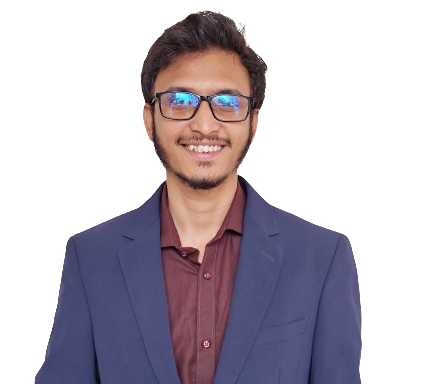
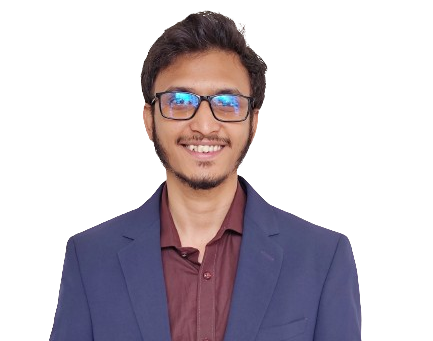
stairs animation added

Changed region(s): [[0.06, 0.0293, 0.8406, 1.0], [0.6905, 0.8211, 0.7506, 1.0], [0.2102, 0.8798, 0.2402, 1.0]]

diff --git a/components/shared/page-transition/stair-transition.tsx b/components/shared/page-transition/stair-transition.tsx
@@ -1,0 +1,48 @@
+'use client';
+
+import { AnimatePresence, motion } from 'framer-motion';
+import { usePathname } from 'next/navigation';
+
+const stairAnimation = {
+  initial: {
+    top: '0%',
+  },
+  animate: {
+    top: '100%',
+  },
+  exit: {
+    top: ['100%', '0%'],
+  },
+};
+
+const reverseIndex = (index: number) => {
+  const totalSteps = 12;
+  return totalSteps - index - 1;
+};
+
+export function StairTransition() {
+  const pathName = usePathname();
+  return (
+    <AnimatePresence mode="wait">
+      <div key={pathName}>
+        <div className="pointer-events-none fixed left-0 right-0 top-0 z-50 flex h-screen w-screen">
+          {[...Array(12)].map((_, index) => (
+            <motion.div
+              key={index}
+              variants={stairAnimation}
+              initial="initial"
+              animate="animate"
+              exit="exit"
+              transition={{
+                duration: 0.3,
+                ease: 'easeInOut',
+                delay: reverseIndex(index) * 0.04,
+              }}
+              className="relative h-full w-full bg-neutral-100"
+            />
+          ))}
+        </div>
+      </div>
+    </AnimatePresence>
+  );
+}

diff --git a/app/layout.tsx b/app/layout.tsx
@@ -1,8 +1,10 @@
 import type { Metadata } from 'next';
 import { JetBrains_Mono } from 'next/font/google';
-import './globals.css';
-import { Navbar } from '@/components/shared/navbar';
+import { PageTransition } from '@/components/shared/page-transition';
 import { cn } from '@/lib/utils';
+import './globals.css';
+import { StairTransition } from '@/components/shared/page-transition/stair-transition';
+import { Navbar } from '@/components/shared/navbar';
 import { Footer } from '@/components/shared/footer';
 
 const font = JetBrains_Mono({
@@ -21,9 +23,10 @@ export default function RootLayout({
 }>) {
   return (
     <html lang="en">
-      <body className={cn(font.className, 'flex min-h-screen flex-col')}>
+      <body className={font.className}>
         <Navbar />
-        {children}
+        <StairTransition />
+        <PageTransition>{children}</PageTransition>
         <Footer />
       </body>
     </html>

diff --git a/components/shared/page-transition/index.tsx b/components/shared/page-transition/index.tsx
@@ -1,0 +1,24 @@
+'use client';
+
+import { PropsWithChildren } from 'react';
+import { AnimatePresence, motion } from 'framer-motion';
+import { usePathname } from 'next/navigation';
+
+export function PageTransition({ children }: PropsWithChildren) {
+  const pathName = usePathname();
+  return (
+    <AnimatePresence>
+      <section key={pathName}>
+        <motion.section
+          initial={{ opacity: 1 }}
+          animate={{
+            opacity: 0,
+            transition: { delay: 0.3, duration: 0.2, ease: 'easeInOut' },
+          }}
+          className="pointer-events-none fixed top-0 h-screen w-screen bg-background"
+        />
+        {children}
+      </section>
+    </AnimatePresence>
+  );
+}

diff --git a/components/shared/footer.tsx b/components/shared/footer.tsx
@@ -1,8 +1,9 @@
 'use client';
 
-import Link from 'next/link';
 import { socialLinks } from '@/app/(home)/_data/social-links';
+import Link from 'next/link';
 import { usePathname } from 'next/navigation';
+// import { socialLinks } from '@/app/(main)/(home)/_data/social-links';
 
 export function Footer() {
   const pathName = usePathname();

diff --git a/app/about-me/_components/about-me.tsx b/app/about-me/_components/about-me.tsx
@@ -14,7 +14,7 @@ export function AboutMe() {
           and the skills I bring to the table.
         </p>
       </div>
-      <div className="w-full max-w-[350px] rounded-3xl bg-black/20">
+      <div className="w-full max-w-[400px] rounded-3xl bg-black/20">
         <Image
           style={{}}
           className="rounded-3xl"

diff --git a/app/about-me/_components/skills/index.tsx b/app/about-me/_components/skills/index.tsx
@@ -4,7 +4,7 @@ import { SkillCard } from './skill.card';
 
 export function Skills() {
   return (
-    <div className="mt-16d">
+    <div className="mt-16">
       <Heading>My Skills.</Heading>
       <h3 className="mt-12 text-xl font-semibold">Front End.</h3>
       <div className="mt-6 grid grid-cols-4 gap-6">

diff --git a/components/shared/navbar/index.tsx b/components/shared/navbar/index.tsx
@@ -2,8 +2,8 @@
 
 import Link from 'next/link';
 import { Button } from '../../ui/button';
-import { navLinks } from './nav-links';
 import { usePathname } from 'next/navigation';
+import { navLinks } from './nav-links';
 import { cn } from '@/lib/utils';
 import { NavMenu } from './nav-menu';
 
